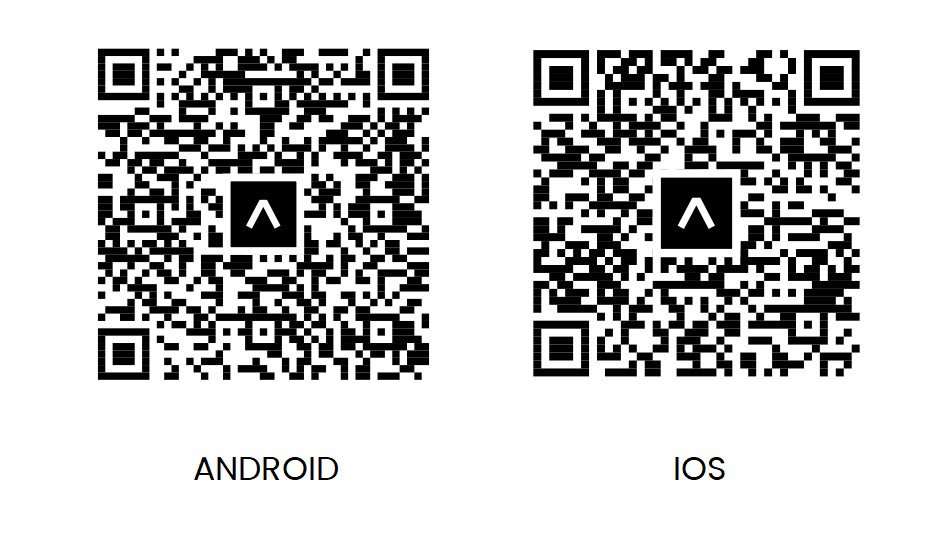
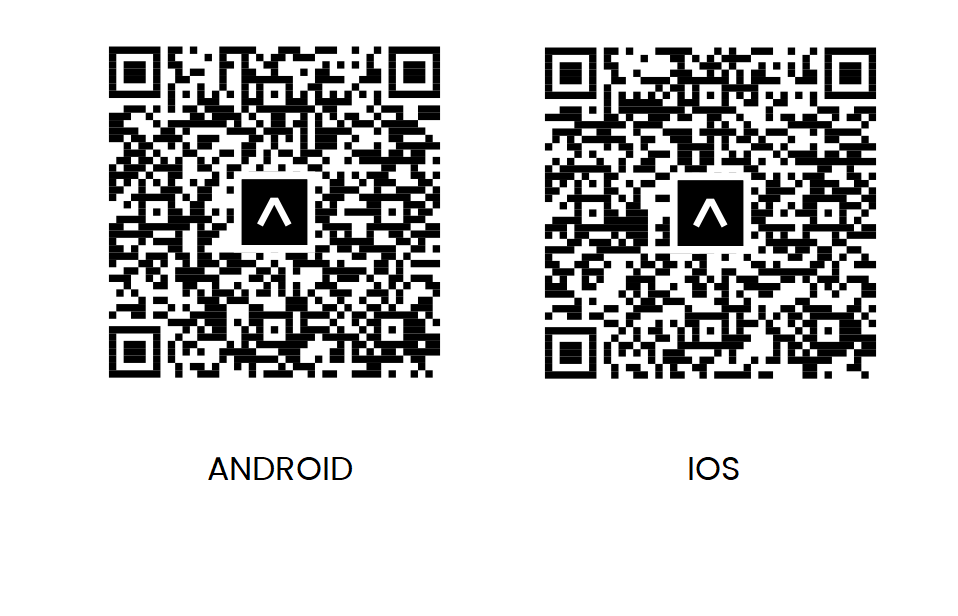
[FE0014] Update QR

diff --git a/src/components/page/HomePage/UserManual/UserManualPC.tsx b/src/components/page/HomePage/UserManual/UserManualPC.tsx
@@ -21,8 +21,8 @@ const UserManualPC: React.FC = () => {
                 <div className="service-column">
                     <img src={require('../../../../asserts/img/app2.png')} alt="Service 3" className="service-image" />
                     <p className="service-content" style={{ fontFamily: 'Poppins', fontSize: '36px', fontWeight: 'bold', marginBottom: '5px' }}>Step 3</p>
-                    <p className="service-content2" style={{ fontFamily: 'Poppins', fontSize: '20px', marginTop: '5px' }}><p style={{ marginBottom: "-2px" }}>Android:</p> exp://u.expo.dev/update/5cd03ac1-a216-4ff6-88f5-c8a4653ea17e</p>
-                    <p className="service-content2" style={{ fontFamily: 'Poppins', fontSize: '20px', marginTop: '5px' }}><p style={{ marginBottom: "-2px" }}>IOS:</p> exp://u.expo.dev/update/abbb9910-3295-43be-a544-245689d85d1e</p>
+                    <p className="service-content2" style={{ fontFamily: 'Poppins', fontSize: '20px', marginTop: '5px' }}><p style={{ marginBottom: "-2px" }}>Android:</p> exp://u.expo.dev/update/eb4e5b55-6725-44e2-bc3b-65b3fd89a1ef</p>
+                    <p className="service-content2" style={{ fontFamily: 'Poppins', fontSize: '20px', marginTop: '5px' }}><p style={{ marginBottom: "-2px" }}>IOS:</p> exp://u.expo.dev/update/f360ad55-20f8-4fec-8aa2-23d6be489a4e</p>
                 </div>
             </div>
         </section>

diff --git a/src/components/page/HomePage/UserManual/UserManualMobile.tsx b/src/components/page/HomePage/UserManual/UserManualMobile.tsx
@@ -56,10 +56,10 @@ const UserManualMobile: React.FC = () => {
                                 Step 3
                             </Typography>
                             <Typography variant="body1" className="service-description-mobile">
-                                Android: exp://u.expo.dev/update/4deab2d7-7b85-428c-a3a6-c914b024260e
+                                Android: exp://u.expo.dev/update/eb4e5b55-6725-44e2-bc3b-65b3fd89a1ef
                             </Typography>
                             <Typography variant="body1" className="service-description-mobile">
-                                IOS: exp://u.expo.dev/update/c0510b18-cfd4-4a3c-b3c3-921101470cc1
+                                IOS: exp://u.expo.dev/update/f360ad55-20f8-4fec-8aa2-23d6be489a4e
                             </Typography>
                         </div>
                         <img src={require('../../../../asserts/img/app2.png')} alt="Service 3" className="service-image-mobile" />
